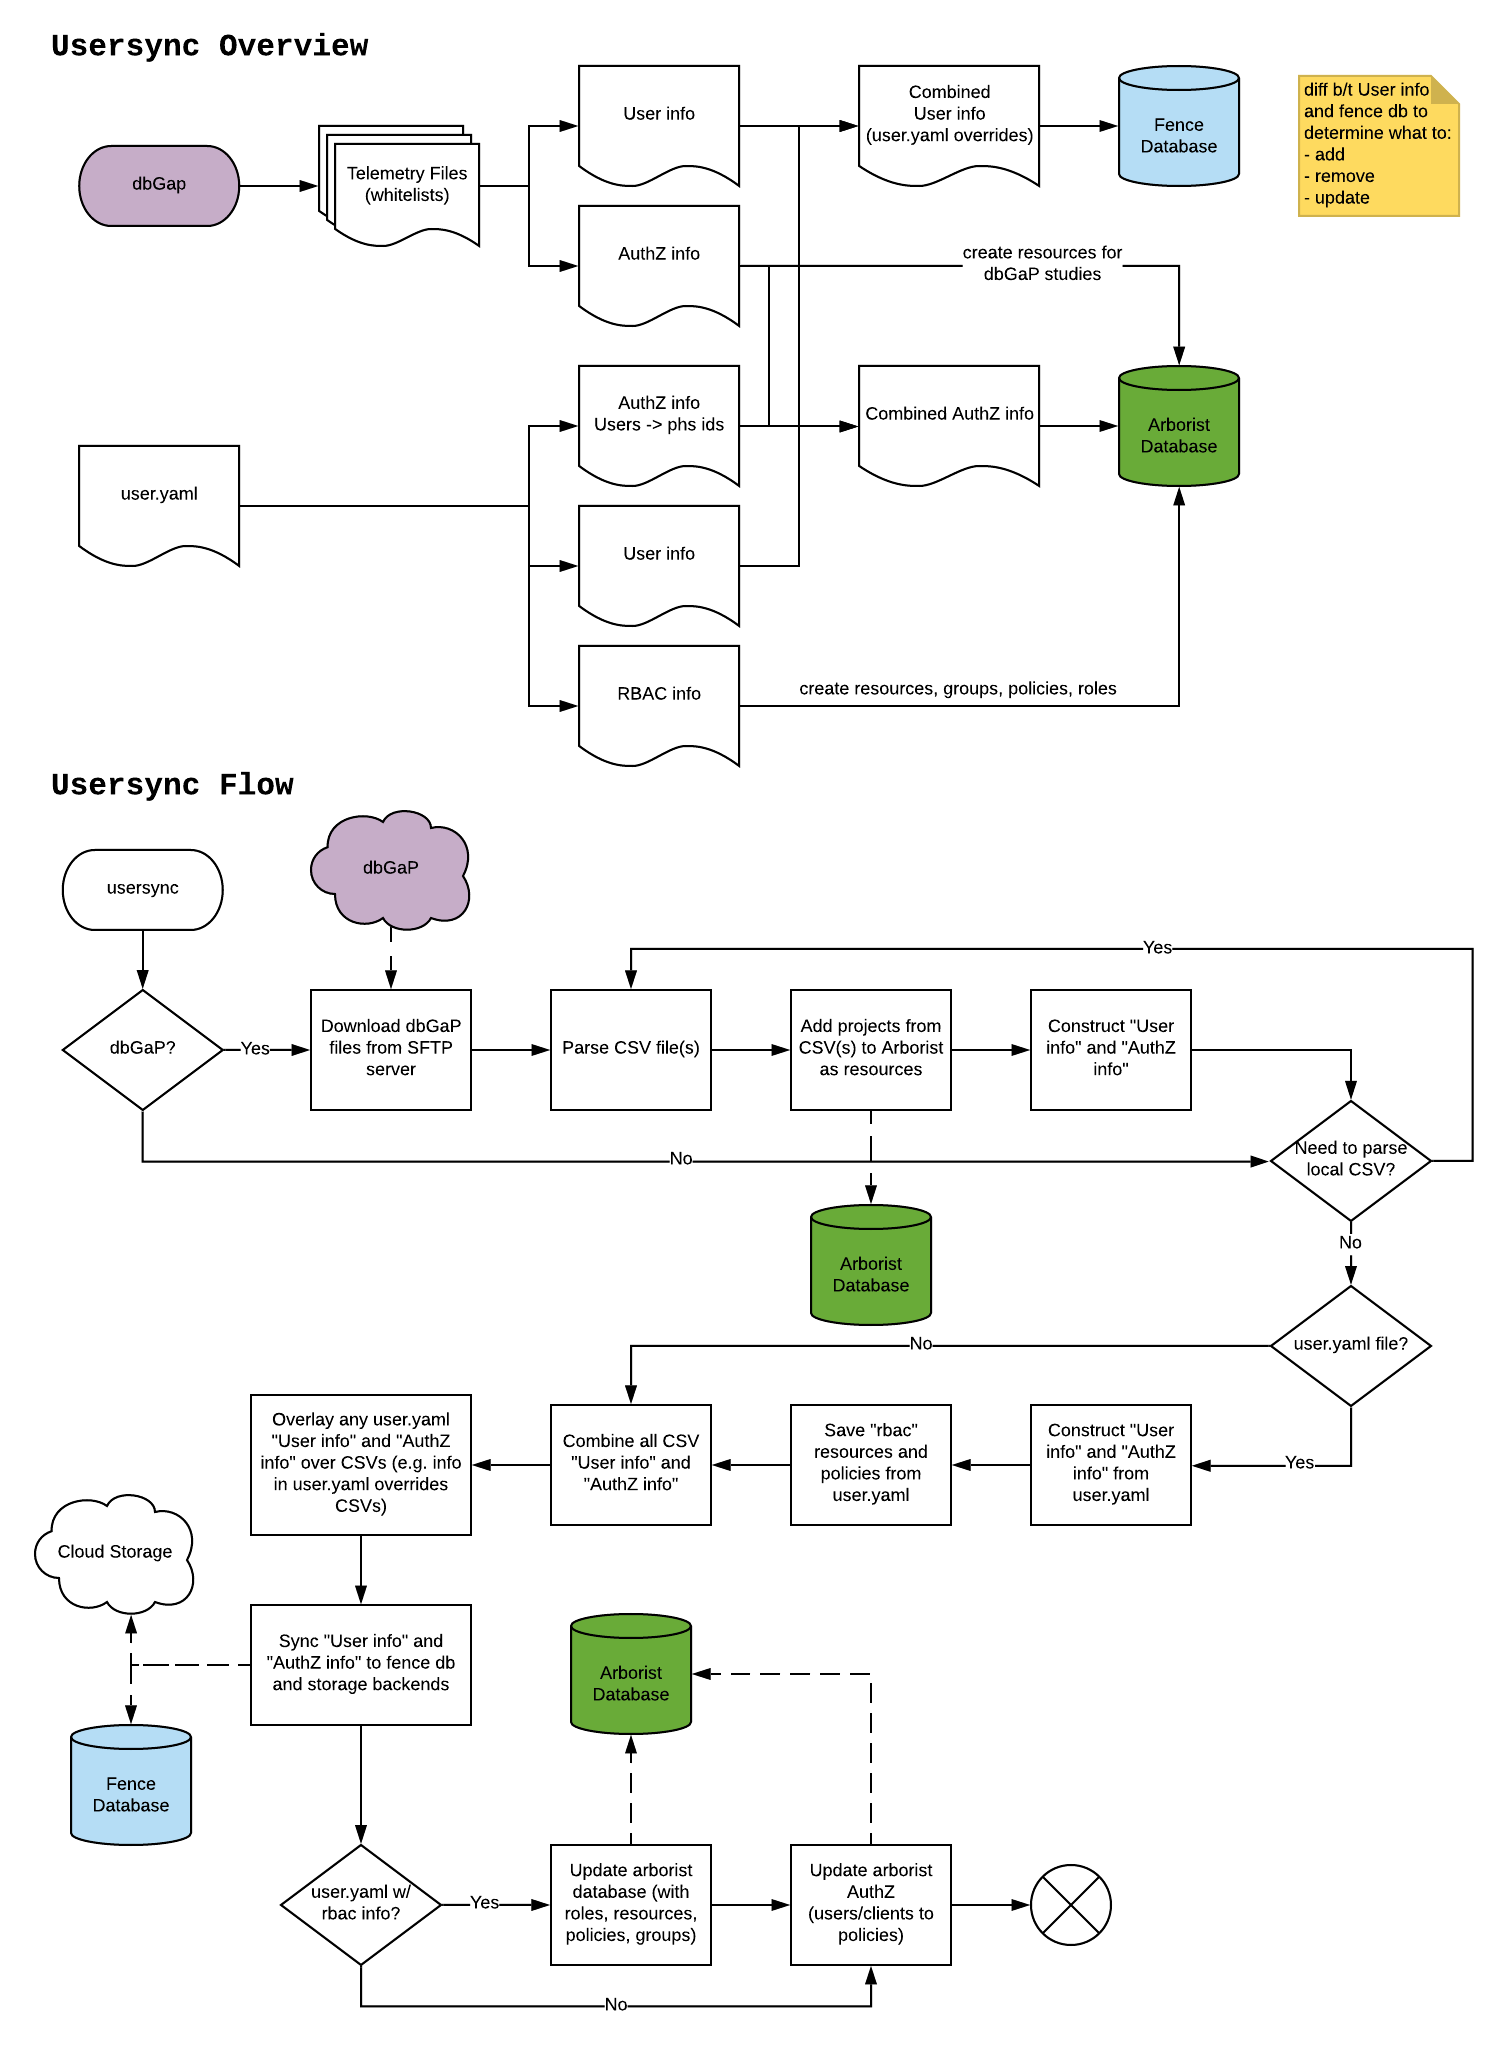
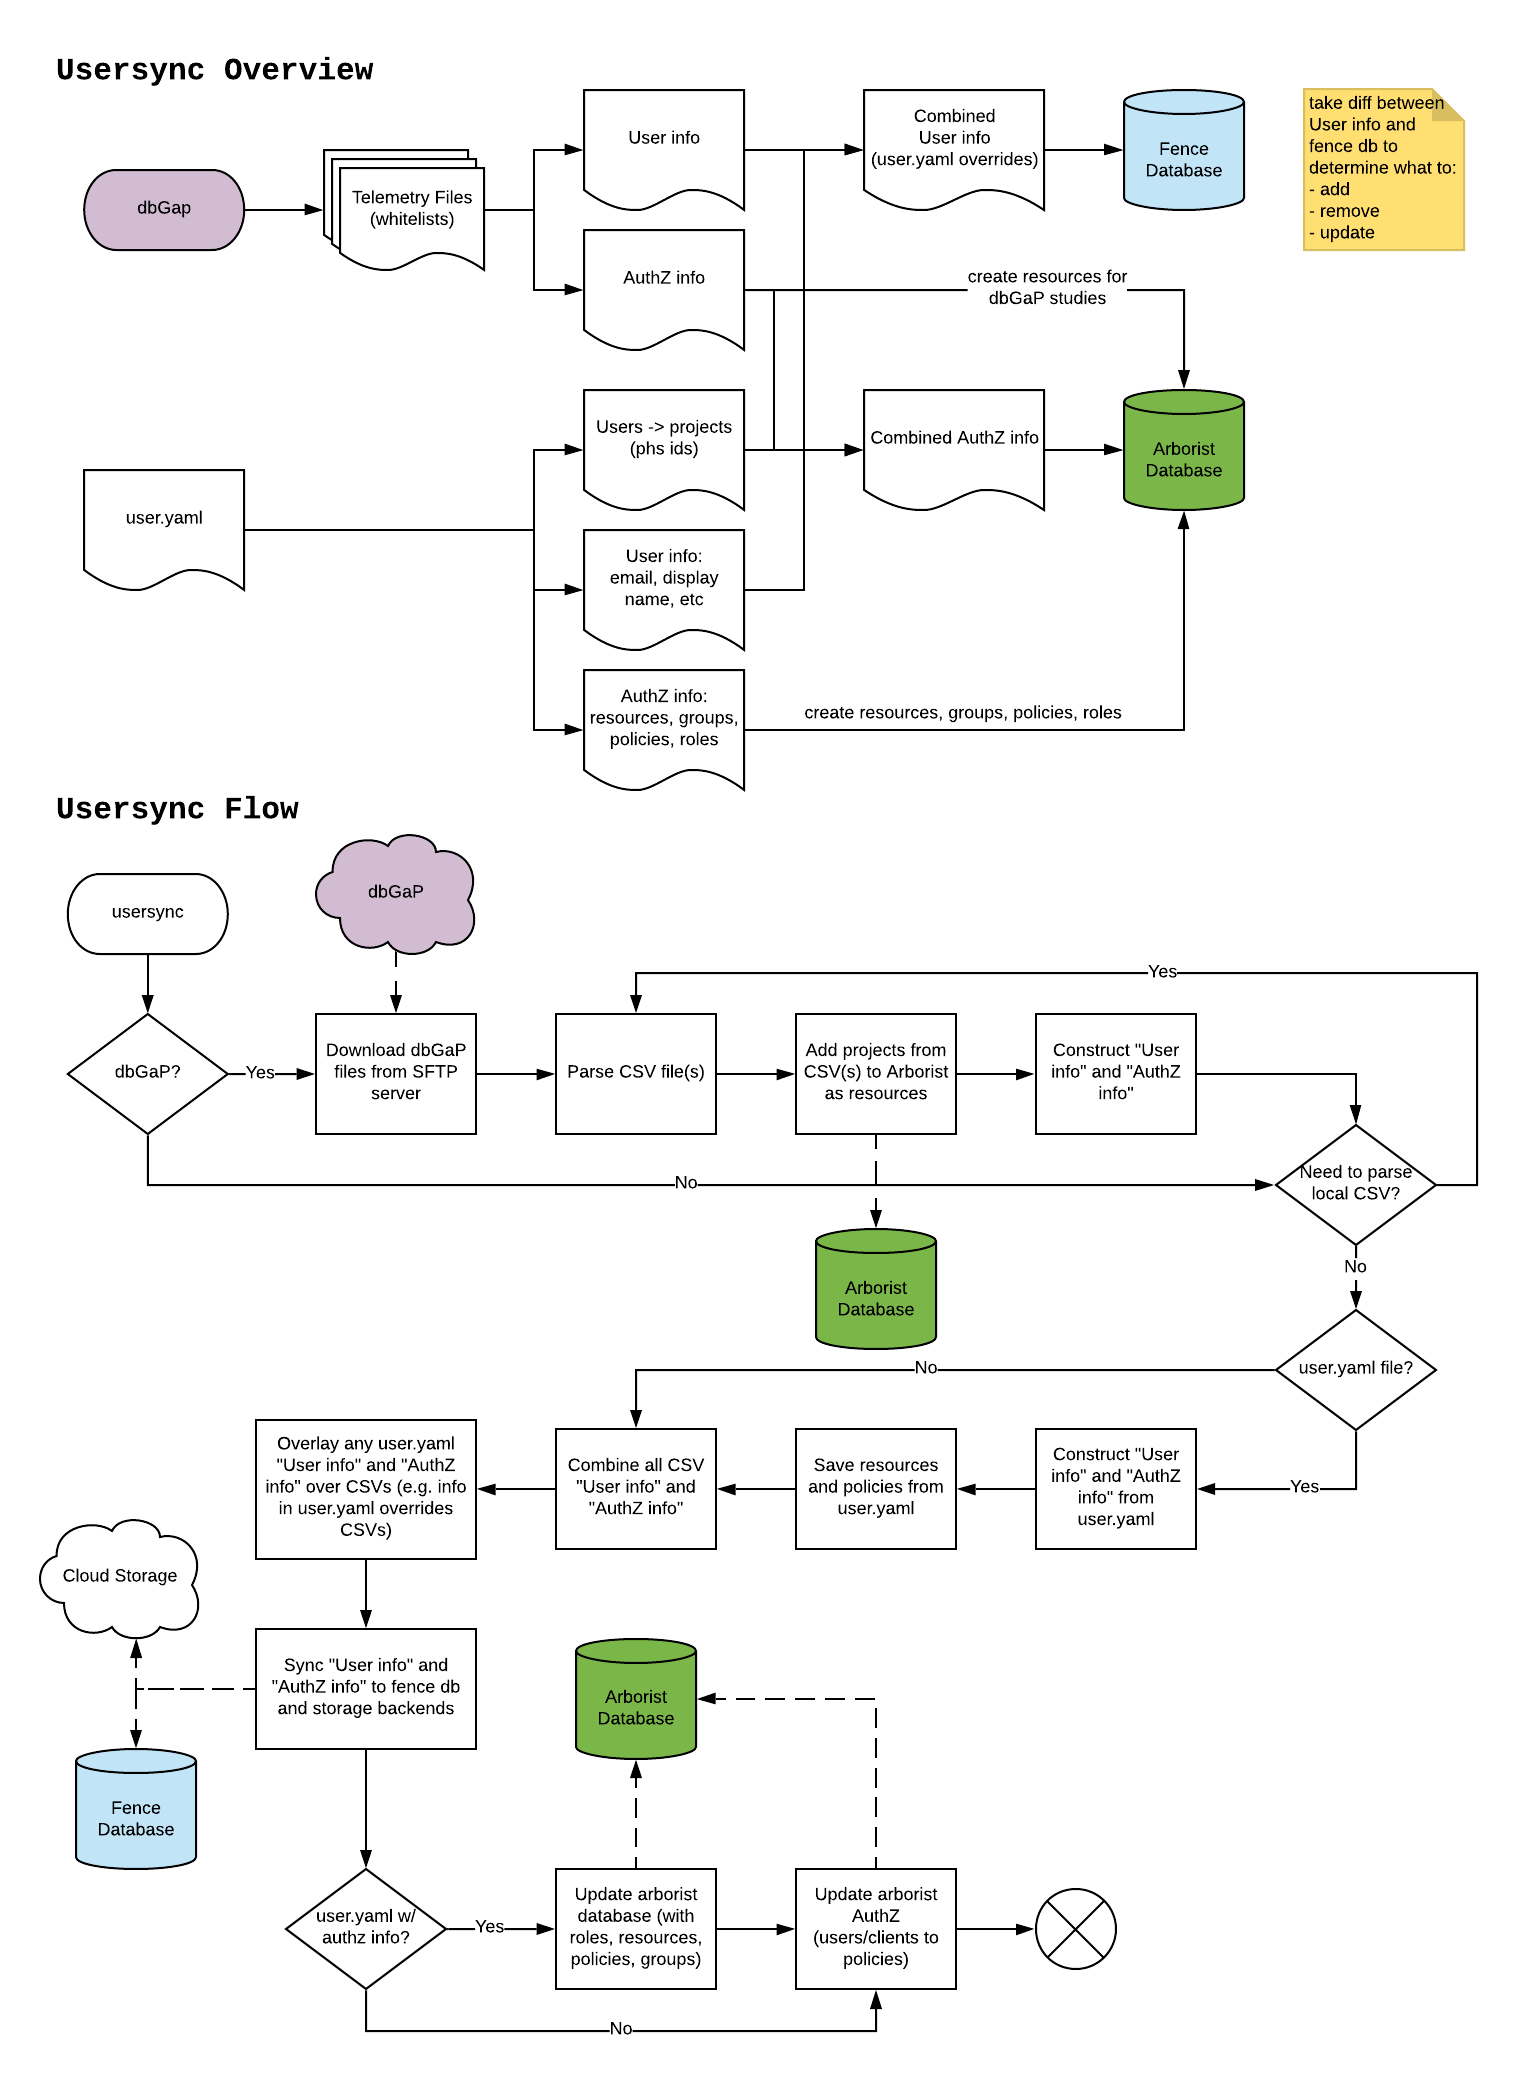
update diagram

diff --git a/docs/usersync.md b/docs/usersync.md
@@ -1,6 +1,6 @@
 # Usersync
 
-`Usersync` is a script that parses user access information from multiple sources (dbGaP telemetry files, user.yaml files) and keeps users' access to Gen3 resources up to date by updating the Fence and Arborist databases.
+Usersync is a script that parses user access information from multiple sources (user.yaml files, dbGaP user authorization telemetry files AKA whitelists) and keeps users' access to Gen3 resources up to date by updating the Fence and Arborist databases.
 
 ## Usersync flow
 
